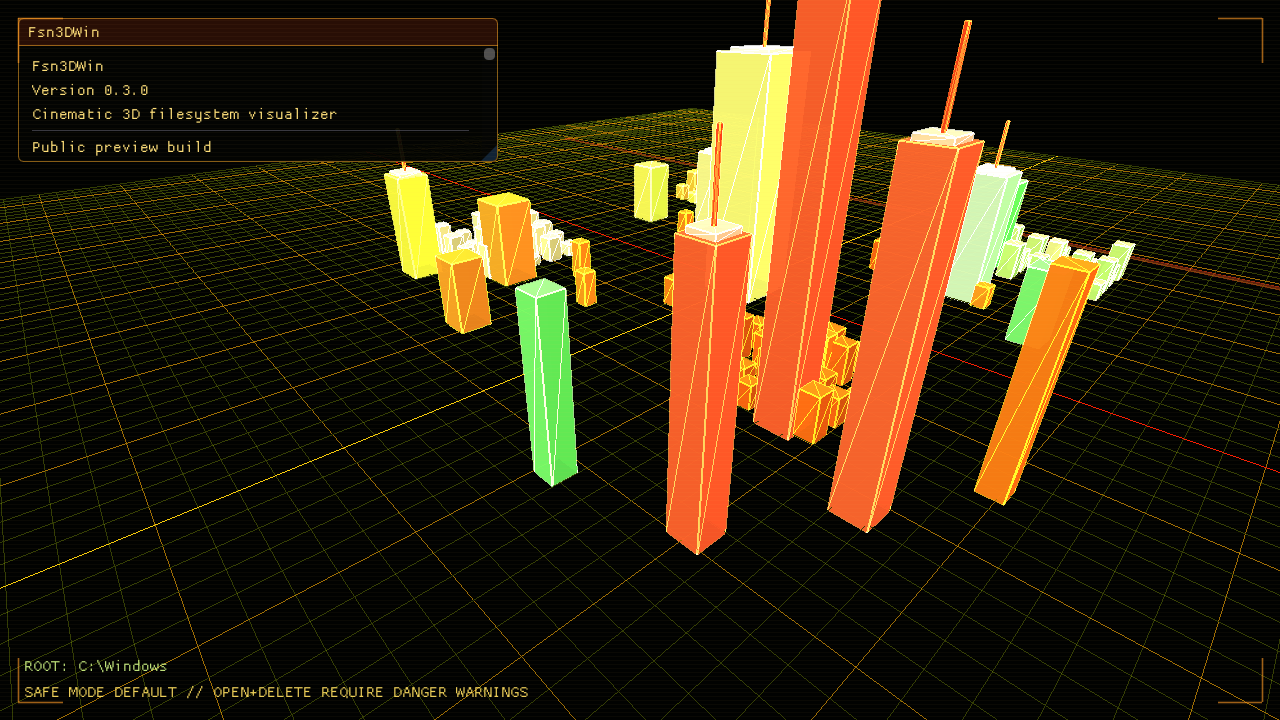
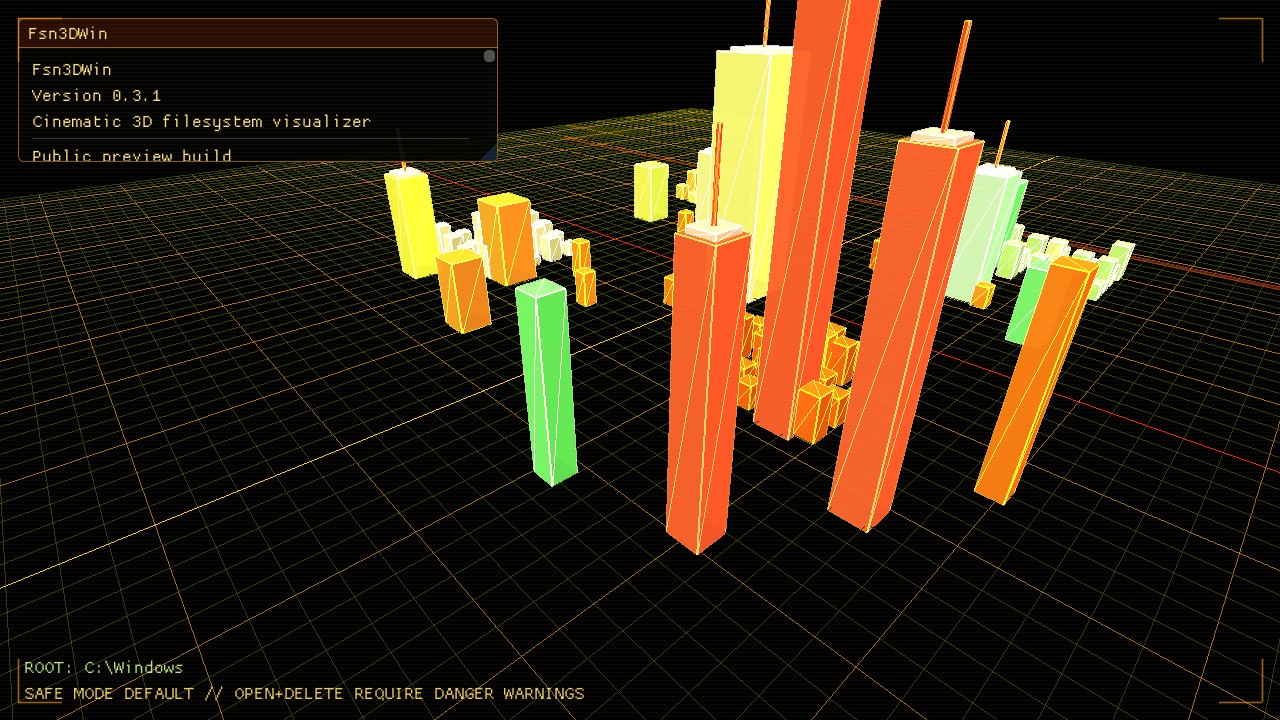
Make file and folder names readable

Changed region(s): [[0.0, 0.0306, 0.4062, 0.2444], [0.0, 0.9167, 0.4688, 0.9778]]

diff --git a/src/app/App.cpp b/src/app/App.cpp
@@ -49,7 +49,7 @@ constexpr int WindowHeight = 720;
 constexpr const char* WindowTitle = "Fsn3DWin";
 constexpr const char* ImGuiGlslVersion = "#version 410";
 #ifndef FSN3DWIN_VERSION
-#define FSN3DWIN_VERSION "0.3.0"
+#define FSN3DWIN_VERSION "0.3.1"
 #endif
 
 bool keyPressedOnce(GLFWwindow* window, int key, bool& wasDown)
@@ -273,7 +273,7 @@ void App::initImGui()
 
     ImGuiIO& io = ImGui::GetIO();
     io.ConfigFlags |= ImGuiConfigFlags_NavEnableKeyboard;
-    io.FontGlobalScale = 1.22f;
+    io.FontGlobalScale = 1.35f;
 
     ImGuiStyle& style = ImGui::GetStyle();
     style.WindowRounding = 5.0f;
@@ -1038,6 +1038,66 @@ bool App::projectSceneNodeLabel(const SceneNode& sceneNode, int framebufferWidth
 
 std::vector<OverlayLabel> App::buildOverlayLabels(int framebufferWidth, int framebufferHeight, float aspectRatio) const
 {
+    struct LabelCandidate {
+        const SceneNode* node = nullptr;
+        float distance = 0.0f;
+    };
+
+    const auto candidateIsCloser = [](const LabelCandidate& lhs, const LabelCandidate& rhs) {
+        return lhs.distance < rhs.distance;
+    };
+    const auto maxHeapByDistance = [](const LabelCandidate& lhs, const LabelCandidate& rhs) {
+        return lhs.distance < rhs.distance;
+    };
+    const auto pushCandidate = [&](std::vector<LabelCandidate>& candidates, const SceneNode& node, std::size_t maxCount) {
+        const float distance = glm::length(node.position - camera_.position());
+        if (candidates.size() < maxCount) {
+            candidates.push_back({.node = &node, .distance = distance});
+            std::push_heap(candidates.begin(), candidates.end(), maxHeapByDistance);
+            return;
+        }
+
+        if (!candidates.empty() && distance < candidates.front().distance) {
+            std::pop_heap(candidates.begin(), candidates.end(), maxHeapByDistance);
+            candidates.back() = {.node = &node, .distance = distance};
+            std::push_heap(candidates.begin(), candidates.end(), maxHeapByDistance);
+        }
+    };
+    const auto labelTextForNode = [&](const SceneNode& node) {
+        const FileNode* fileNode = fileNodeForSceneNode(&node);
+        const std::string name = node.label.empty() ? std::string("(unnamed)") : node.label;
+        if (fileNode == nullptr) {
+            return name;
+        }
+
+        if (fileNode->type == FileNodeType::Directory) {
+            return std::string("[DIR] ") + name;
+        }
+
+        if (fileNode->type == FileNodeType::Symlink) {
+            return std::string("[LINK] ") + name;
+        }
+
+        if (fileNode->type == FileNodeType::Error) {
+            return std::string("[ERR] ") + name;
+        }
+
+        switch (fileNode->category) {
+        case FileCategory::Image:
+            return std::string("[IMG] ") + name;
+        case FileCategory::Source:
+            return std::string("[CODE] ") + name;
+        case FileCategory::Document:
+            return std::string("[DOC] ") + name;
+        case FileCategory::Executable:
+            return std::string("[EXE] ") + name;
+        case FileCategory::Archive:
+            return std::string("[ZIP] ") + name;
+        default:
+            return std::string("[FILE] ") + name;
+        }
+    };
+
     std::vector<OverlayLabel> labels;
     if (labelMode_ == LabelMode::Off || !hasFileWorldLayout_) {
         return labels;
@@ -1055,7 +1115,7 @@ std::vector<OverlayLabel> App::buildOverlayLabels(int framebufferWidth, int fram
 
         labels.push_back({
             .position = screenPosition,
-            .text = node.label,
+            .text = labelTextForNode(node),
             .accent = accent,
         });
     };
@@ -1079,38 +1139,48 @@ std::vector<OverlayLabel> App::buildOverlayLabels(int framebufferWidth, int fram
             addLabel(fileWorldLayout_.nodes.front(), true);
         }
 
-        std::vector<const SceneNode*> directoryNodes;
-        directoryNodes.reserve(12);
+        std::vector<LabelCandidate> directoryNodes;
+        directoryNodes.reserve(32);
         for (const SceneNode& node : fileWorldLayout_.nodes) {
             if (!node.visible || node.category != FileCategory::Directory || node.sceneId == 0) {
                 continue;
             }
 
-            directoryNodes.push_back(&node);
+            pushCandidate(directoryNodes, node, 48);
         }
 
-        std::stable_sort(directoryNodes.begin(), directoryNodes.end(), [](const SceneNode* a, const SceneNode* b) {
-            return a->scale.y > b->scale.y;
+        std::sort(directoryNodes.begin(), directoryNodes.end(), [](const LabelCandidate& a, const LabelCandidate& b) {
+            if (a.node->scale.y != b.node->scale.y) {
+                return a.node->scale.y > b.node->scale.y;
+            }
+            return a.distance < b.distance;
         });
 
-        const std::size_t importantCount = std::min<std::size_t>(directoryNodes.size(), 8);
+        const std::size_t importantCount = std::min<std::size_t>(directoryNodes.size(), 18);
         for (std::size_t index = 0; index < importantCount; ++index) {
-            addLabel(*directoryNodes[index], false);
+            addLabel(*directoryNodes[index].node, false);
         }
     }
 
     if (labelMode_ == LabelMode::LimitedAll) {
-        constexpr std::size_t MaxLabels = 60;
+        constexpr std::size_t MaxLabels = 120;
+        std::vector<LabelCandidate> fileNodes;
+        fileNodes.reserve(128);
         for (const SceneNode& node : fileWorldLayout_.nodes) {
-            if (labels.size() >= MaxLabels) {
-                break;
-            }
-
             if (!node.visible || node.category == FileCategory::Directory) {
                 continue;
             }
 
-            addLabel(node, false);
+            pushCandidate(fileNodes, node, 160);
+        }
+
+        std::sort(fileNodes.begin(), fileNodes.end(), candidateIsCloser);
+        for (const LabelCandidate& candidate : fileNodes) {
+            if (labels.size() >= MaxLabels) {
+                break;
+            }
+
+            addLabel(*candidate.node, false);
         }
     }
 

diff --git a/src/ui/Hud.cpp b/src/ui/Hud.cpp
@@ -178,24 +178,43 @@ void drawActiveNamePlate(const HudState& state, const FileNode* selectedFileNode
         return;
     }
 
-    title = compactText(title, 64);
-    subtitle = compactText(subtitle, 96);
+    title = compactText(title, 72);
+    subtitle = compactText(subtitle, 128);
 
     ImDrawList* drawList = ImGui::GetForegroundDrawList();
     const ImVec2 display = ImGui::GetIO().DisplaySize;
-    const ImVec2 titleSize = ImGui::CalcTextSize(title.c_str());
-    const ImVec2 subtitleSize = ImGui::CalcTextSize(subtitle.c_str());
-    const float width = std::min(std::max(titleSize.x, subtitleSize.x) + 42.0f, display.x - 60.0f);
-    const float height = subtitle.empty() ? 42.0f : 70.0f;
-    const ImVec2 min(display.x * 0.5f - width * 0.5f, 20.0f);
+    ImFont* font = ImGui::GetFont();
+    const float baseFontSize = ImGui::GetFontSize();
+    const float titleScale = selected ? 1.28f : 1.20f;
+    const float subtitleScale = 1.06f;
+    const ImVec2 measuredTitleSize = ImGui::CalcTextSize(title.c_str());
+    const ImVec2 measuredSubtitleSize = ImGui::CalcTextSize(subtitle.c_str());
+    const ImVec2 titleSize(measuredTitleSize.x * titleScale, measuredTitleSize.y * titleScale);
+    const ImVec2 subtitleSize(measuredSubtitleSize.x * subtitleScale, measuredSubtitleSize.y * subtitleScale);
+    const float leftReserve = display.x > 880.0f ? 520.0f : 0.0f;
+    const float availableMinX = leftReserve + 18.0f;
+    const float availableWidth = std::max(300.0f, display.x - availableMinX - 24.0f);
+    const float width = std::min(std::max(titleSize.x, subtitleSize.x) + 48.0f, availableWidth);
+    const float height = subtitle.empty() ? 52.0f : 88.0f;
+    const ImVec2 min(availableMinX + availableWidth * 0.5f - width * 0.5f, 20.0f);
     const ImVec2 max(min.x + width, min.y + height);
     const ImU32 border = selected ? IM_COL32(255, 226, 66, 240) : IM_COL32(255, 118, 36, 220);
 
     drawList->AddRectFilled(min, max, IM_COL32(5, 6, 2, 226), 5.0f);
     drawList->AddRect(min, max, border, 5.0f, 0, 1.4f);
-    drawList->AddText(ImVec2(min.x + 21.0f, min.y + 11.0f), selected ? IM_COL32(255, 244, 150, 255) : IM_COL32(255, 198, 88, 255), title.c_str());
+    drawList->AddText(
+        font,
+        baseFontSize * titleScale,
+        ImVec2(min.x + 24.0f, min.y + 12.0f),
+        selected ? IM_COL32(255, 244, 150, 255) : IM_COL32(255, 198, 88, 255),
+        title.c_str());
     if (!subtitle.empty()) {
-        drawList->AddText(ImVec2(min.x + 21.0f, min.y + 40.0f), IM_COL32(192, 255, 138, 235), subtitle.c_str());
+        drawList->AddText(
+            font,
+            baseFontSize * subtitleScale,
+            ImVec2(min.x + 24.0f, min.y + 53.0f),
+            IM_COL32(192, 255, 138, 235),
+            subtitle.c_str());
     }
 }
 
@@ -227,8 +246,12 @@ void drawScreenLabels(const HudState& state)
             continue;
         }
 
-        const std::string text = compactText(label.text, 42);
-        const ImVec2 textSize = ImGui::CalcTextSize(text.c_str());
+        const std::string text = compactText(label.text, label.accent ? 76 : 54);
+        ImFont* font = ImGui::GetFont();
+        const float baseFontSize = ImGui::GetFontSize();
+        const float fontScale = label.accent ? 1.22f : 1.10f;
+        const ImVec2 measuredSize = ImGui::CalcTextSize(text.c_str());
+        const ImVec2 textSize(measuredSize.x * fontScale, measuredSize.y * fontScale);
         const ImVec2 anchor(label.position.x, label.position.y);
         ImVec2 min(anchor.x - textSize.x * 0.5f - padding.x, anchor.y - textSize.y - padding.y * 2.0f);
         ImVec2 max(anchor.x + textSize.x * 0.5f + padding.x, anchor.y);
@@ -255,8 +278,18 @@ void drawScreenLabels(const HudState& state)
         drawList->AddRectFilled(min, max, IM_COL32(5, 7, 2, label.accent ? 238 : 216), 4.0f);
         drawList->AddRect(min, max, borderColor, 4.0f, 0, label.accent ? 1.6f : 1.1f);
         drawList->AddLine(ImVec2(anchor.x, max.y), ImVec2(anchor.x, max.y + 10.0f), borderColor, 1.0f);
-        drawList->AddText(ImVec2(min.x + padding.x + 1.0f, min.y + padding.y + 1.0f), IM_COL32(0, 0, 0, 210), text.c_str());
-        drawList->AddText(ImVec2(min.x + padding.x, min.y + padding.y), label.accent ? IM_COL32(255, 245, 150, 255) : IM_COL32(240, 255, 166, 255), text.c_str());
+        drawList->AddText(
+            font,
+            baseFontSize * fontScale,
+            ImVec2(min.x + padding.x + 1.0f, min.y + padding.y + 1.0f),
+            IM_COL32(0, 0, 0, 230),
+            text.c_str());
+        drawList->AddText(
+            font,
+            baseFontSize * fontScale,
+            ImVec2(min.x + padding.x, min.y + padding.y),
+            label.accent ? IM_COL32(255, 245, 150, 255) : IM_COL32(240, 255, 166, 255),
+            text.c_str());
     }
 }
 

diff --git a/README.md b/README.md
@@ -13,12 +13,14 @@ It is intentionally read-only. It is not a file manager. It is built to look spe
 
 ![Fsn3DWin Windows scan](docs/screenshots/windows-filesystem-city.png)
 
+![Fsn3DWin image preview](docs/screenshots/image-preview.png)
+
 ## Highlights
 
 - Native Windows C++20 desktop app.
 - GPU instanced OpenGL rendering for thousands of file nodes.
 - Read-only `std::filesystem` metadata scanner by default.
-- Clear filename/folder labels, selected-name banner, and FSN-style hierarchy wires.
+- Large `[DIR]`, `[IMG]`, and `[FILE]` name tags, selected-name banner, and FSN-style hierarchy wires.
 - 3D photo preview billboard for selected image files.
 - Cinematic fly camera, presentation orbit, clean HUD mode, and screenshot hotkey.
 - Search and category filters for scanned file worlds.
@@ -41,7 +43,7 @@ The screenshot feature writes BMP files to the app-owned `screenshots/` folder i
 Use the latest GitHub release and download the portable Windows zip:
 
 ```text
-Fsn3DWin-0.3.0-windows-x64.zip
+Fsn3DWin-0.3.1-windows-x64.zip
 ```
 
 Extract it and run: